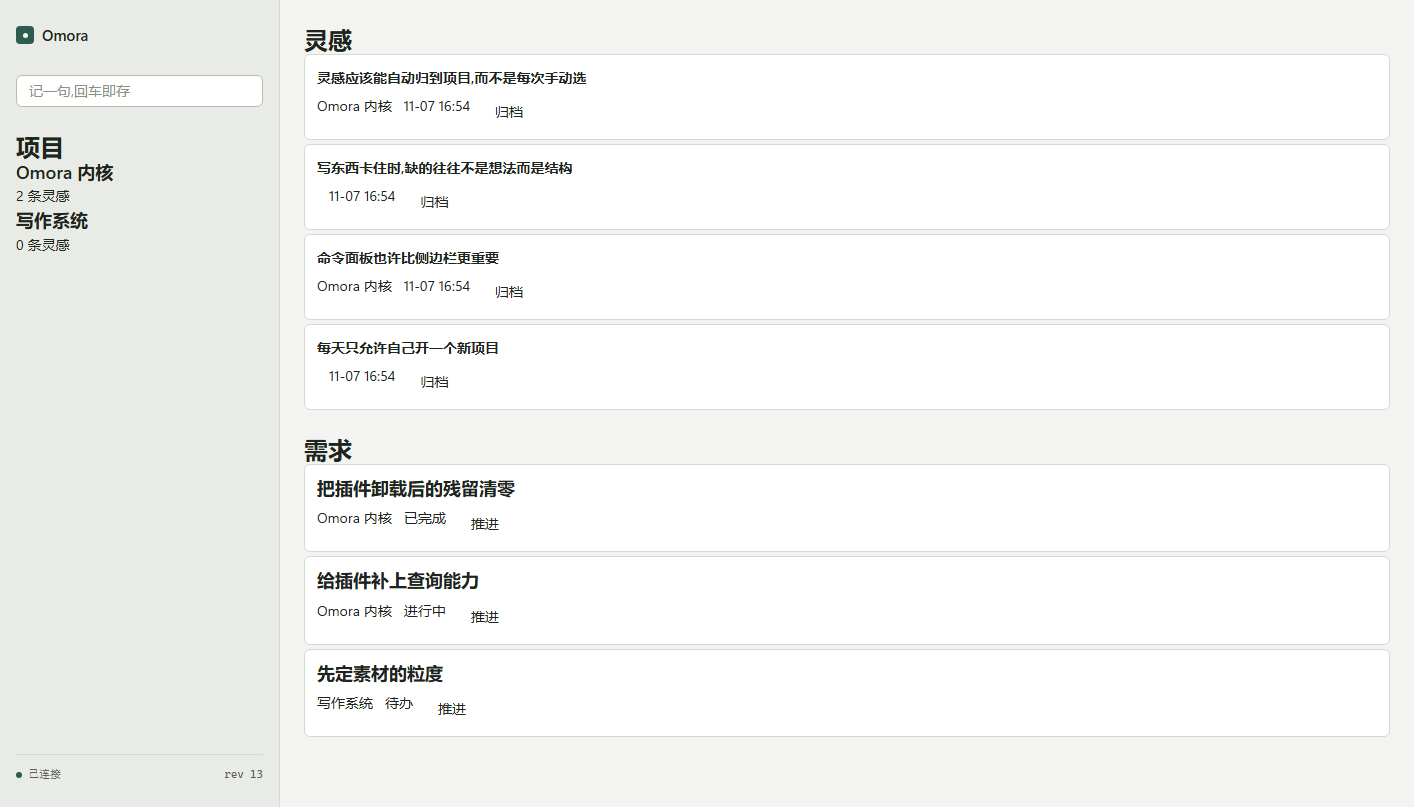
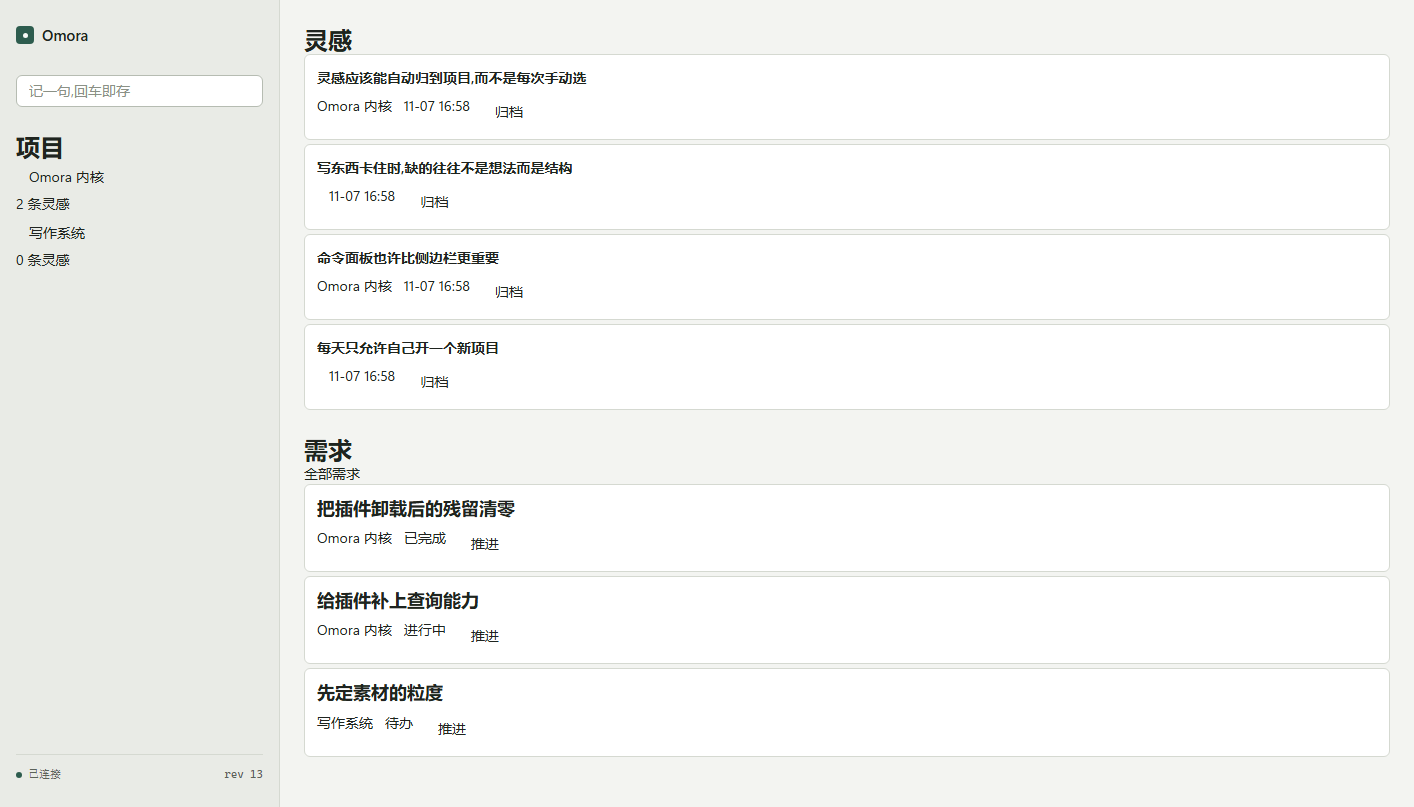
feat: 点项目即聚焦,需求列表跟着过滤
projects 广播 projects.focused,requirements 折叠它并重算可见列表——
跨插件联动只靠事件,两边互不 import,也不知道对方存在。

Changed region(s): [[0.2178, 0.5576, 0.9646, 0.9294], [0.0, 0.1859, 0.0934, 0.3408]]

diff --git a/plugins/projects/src/omora_plugins_projects/__init__.py b/plugins/projects/src/omora_plugins_projects/__init__.py
@@ -8,7 +8,7 @@ from __future__ import annotations
 from collections.abc import Mapping, Sequence
 from typing import cast
 
-from omora_sdk import Handler, Node, Plugin, PluginContext, list_, stack, text
+from omora_sdk import Handler, Node, Plugin, PluginContext, button, list_, stack, text
 
 PLUGIN_ID = "omora.projects"
 SIDEBAR_CONTRIBUTION_ID = "projects.sidebar"
@@ -19,6 +19,8 @@ LOOKUP_SERVICE = "projects.lookup"
 CREATED_EVENT = "projects.created"
 ARCHIVED_EVENT = "projects.archived"
 IDEA_ASSIGNED_EVENT = "ideas.assigned"
+FOCUS_COMMAND = "projects.focus"
+FOCUSED_EVENT = "projects.focused"
 
 
 def _item_list(state: dict[str, object]) -> list[dict[str, object]]:
@@ -84,6 +86,22 @@ def _fold_idea_assigned(state: dict[str, object], data: Mapping[str, object]) ->
             item["ideas"] = ideas
         cast("list[object]", ideas).append({"id": idea_id, "title": data.get("ideaTitle", "")})
         item["ideaCountLabel"] = f"{len(cast('list[object]', ideas))} 条灵感"
+
+
+def _focus_command(ctx: PluginContext) -> Handler:
+    """projects.focus:广播「当前看哪个项目」;别的插件据此过滤自己的数据。"""
+
+    async def focus(args: Mapping[str, object]) -> object:
+        project_id = _string_arg(args, "id")
+        title = ""
+        for item in _project_items(ctx.state.read()):
+            if item.get("id") == project_id:
+                value = item.get("title")
+                title = value if isinstance(value, str) else ""
+        await ctx.events.emit(FOCUSED_EVENT, {"id": project_id, "title": title})
+        return None
+
+    return focus
 
 
 def _string_arg(args: Mapping[str, object], key: str) -> str:
@@ -153,7 +171,12 @@ def _view(_state: Mapping[str, object]) -> Sequence[Node]:
                     [
                         stack(
                             [
-                                text("$item.title", variant="subtitle"),
+                                button(
+                                    "$item.title",
+                                    command=FOCUS_COMMAND,
+                                    args={"id": "$item.id"},
+                                    variant="ghost",
+                                ),
                                 text("$item.ideaCountLabel", variant="caption"),
                             ],
                             gap=2,
@@ -176,6 +199,7 @@ class ProjectsPlugin:
         ctx.state.register(IDEA_ASSIGNED_EVENT, _fold_idea_assigned)
         ctx.commands.register(CREATE_COMMAND, _create_command(ctx))
         ctx.commands.register(ARCHIVE_COMMAND, _archive_command(ctx))
+        ctx.commands.register(FOCUS_COMMAND, _focus_command(ctx))
         ctx.queries.register(LIST_QUERY, _list_query(ctx))
         ctx.services.provide(LOOKUP_SERVICE, _lookup_service(ctx))
         ctx.ui.contribute(SIDEBAR_CONTRIBUTION_ID, _view)
@@ -192,6 +216,8 @@ __all__ = [
     "ARCHIVE_COMMAND",
     "CREATED_EVENT",
     "CREATE_COMMAND",
+    "FOCUSED_EVENT",
+    "FOCUS_COMMAND",
     "IDEA_ASSIGNED_EVENT",
     "LIST_QUERY",
     "LOOKUP_SERVICE",

diff --git a/plugins/requirements/src/omora_plugins_requirements/__init__.py b/plugins/requirements/src/omora_plugins_requirements/__init__.py
@@ -27,6 +27,7 @@ CREATE_COMMAND = "requirements.create"
 SET_STATUS_COMMAND = "requirements.setStatus"
 LIST_QUERY = "requirements.list"
 PROJECT_LOOKUP_SERVICE = "projects.lookup"
+FOCUSED_EVENT = "projects.focused"
 CREATED_EVENT = "requirements.created"
 STATUS_CHANGED_EVENT = "requirements.statusChanged"
 
@@ -85,6 +86,7 @@ def _fold_created(state: dict[str, object], data: Mapping[str, object]) -> None:
             "at": data.get("at"),
         }
     )
+    _recompute(state)
 
 
 def _fold_status_changed(state: dict[str, object], data: Mapping[str, object]) -> None:
@@ -98,6 +100,33 @@ def _fold_status_changed(state: dict[str, object], data: Mapping[str, object]) -
             item["status"] = status
             item["statusLabel"] = _label(status)
             item["nextStatus"] = NEXT_STATUS.get(status, STATUS_DONE)
+    _recompute(state)
+
+
+def _recompute(state: dict[str, object]) -> None:
+    """按当前聚焦的项目重算可见列表;没聚焦就是全部。前端只渲染 visible。"""
+    focused = state.get("focusedProjectId")
+    selected = focused if isinstance(focused, str) and focused else None
+    items = _requirement_items(state)
+    state["visible"] = [
+        item for item in items if selected is None or item.get("projectId") == selected
+    ]
+    title = state.get("focusedProjectTitle")
+    if selected is None:
+        state["focusLabel"] = "全部需求"
+    elif isinstance(title, str) and title:
+        state["focusLabel"] = f"项目:{title}"
+    else:
+        state["focusLabel"] = "这个项目"
+
+
+def _fold_focus(state: dict[str, object], data: Mapping[str, object]) -> None:
+    """别的插件广播「看哪个项目」,这里据此过滤自己的列表。"""
+    identifier = data.get("id")
+    state["focusedProjectId"] = identifier if isinstance(identifier, str) else ""
+    title = data.get("title")
+    state["focusedProjectTitle"] = title if isinstance(title, str) else ""
+    _recompute(state)
 
 
 def _string_arg(args: Mapping[str, object], key: str) -> str:
@@ -179,8 +208,9 @@ def _view(_state: Mapping[str, object]) -> Sequence[Node]:
         stack(
             [
                 text("需求", variant="title"),
+                text("$focusLabel", variant="caption"),
                 list_(
-                    "$items",
+                    "$visible",
                     [
                         card(
                             [
@@ -216,6 +246,7 @@ class RequirementsPlugin:
         """登记两条折叠规则、两个命令、一个查询与一个 main 贡献。"""
         ctx.state.register(CREATED_EVENT, _fold_created)
         ctx.state.register(STATUS_CHANGED_EVENT, _fold_status_changed)
+        ctx.state.register(FOCUSED_EVENT, _fold_focus)
         ctx.commands.register(CREATE_COMMAND, _create_command(ctx))
         ctx.commands.register(SET_STATUS_COMMAND, _set_status_command(ctx))
         ctx.queries.register(LIST_QUERY, _list_query(ctx))

diff --git a/plugins/requirements/tests/test_requirements_plugin.py b/plugins/requirements/tests/test_requirements_plugin.py
@@ -82,6 +82,7 @@ def test_activate_registers_commands_query_and_contribution() -> None:
     assert set(context.fake_state.reducers) == {
         "requirements.created",
         "requirements.statusChanged",
+        "projects.focused",
     }
 
 
@@ -129,20 +130,11 @@ def test_created_event_folds_into_items() -> None:
     _create(context, "导出需求", "project-1")
     context.replay()
 
-    assert context.fake_state.read() == {
-        "items": [
-            {
-                "id": "requirement-1",
-                "title": "导出需求",
-                "projectId": "project-1",
-                "projectTitle": "",
-                "status": "todo",
-                "statusLabel": "待办",
-                "nextStatus": "doing",
-                "at": NOW.isoformat(),
-            }
-        ]
-    }
+    state = context.fake_state.read()
+    items = cast("list[dict[str, object]]", state["items"])
+    assert items[0]["title"] == "导出需求"
+    assert state["focusLabel"] == "全部需求", "没有聚焦项目时展示全部"
+    assert cast("list[object]", state["visible"]) == items, "未聚焦时可见列表就是全部"
 
 
 def test_set_status_emits_status_changed_event() -> None:
@@ -244,7 +236,7 @@ def test_advance_button_binds_item_id_and_doing_status() -> None:
 def test_list_declares_empty_state_text() -> None:
     list_node = _find(_nodes(_activated()), "List")[0]
 
-    assert list_node["props"] == {"items": "$items", "emptyText": "还没有需求"}
+    assert list_node["props"] == {"items": "$visible", "emptyText": "还没有需求"}
 
 
 def test_registered_commands_and_slots_match_manifest() -> None:
@@ -268,3 +260,34 @@ def test_manifest_version_matches_repository_version() -> None:
     expected = (ROOT / "VERSION").read_text(encoding="utf-8").strip()
 
     assert _manifest()["version"] == expected
+
+
+def test_focus_event_filters_the_visible_list() -> None:
+    context = _activated()
+    _create(context, "写作台需求", "project-1")
+    _create(context, "内核需求", "project-2")
+    context.replay()
+
+    asyncio.run(
+        context.fake_events.emit("projects.focused", {"id": "project-1", "title": "写作台"})
+    )
+    context.replay()
+
+    state = context.fake_state.read()
+    visible = cast("list[dict[str, object]]", state["visible"])
+    assert [item["title"] for item in visible] == ["写作台需求"], "只看当前项目"
+    assert state["focusLabel"] == "项目:写作台"
+
+
+def test_focusing_nothing_shows_everything_again() -> None:
+    context = _activated()
+    _create(context, "写作台需求", "project-1")
+    _create(context, "内核需求", "project-2")
+    context.replay()
+
+    asyncio.run(context.fake_events.emit("projects.focused", {"id": "", "title": ""}))
+    context.replay()
+
+    state = context.fake_state.read()
+    assert len(cast("list[object]", state["visible"])) == 2
+    assert state["focusLabel"] == "全部需求"

diff --git a/plugins/projects/tests/test_projects_plugin.py b/plugins/projects/tests/test_projects_plugin.py
@@ -46,7 +46,11 @@ def _children(node: Node) -> list[Node]:
 def test_activate_registers_commands_query_service_and_contribution() -> None:
     context = _activated()
 
-    assert set(context.fake_commands.handlers) == {"projects.create", "projects.archive"}
+    assert set(context.fake_commands.handlers) == {
+        "projects.create",
+        "projects.archive",
+        "projects.focus",
+    }
     assert set(context.fake_queries.handlers) == {"projects.list"}
     assert set(context.fake_services.providers) == {"projects.lookup"}
     assert set(context.fake_ui.contributions) == {"projects.sidebar"}
@@ -149,10 +153,12 @@ def test_sidebar_lists_project_titles_with_empty_state_text() -> None:
     assert rows[1]["props"] == {"items": "$items", "emptyText": "还没有项目"}
     row = _children(rows[1])[0]
     assert row["type"] == "Stack"
-    assert [leaf["props"]["text"] for leaf in _children(row)] == [
-        "$item.title",
-        "$item.ideaCountLabel",
-    ]
+    leaves = _children(row)
+    assert [leaf["type"] for leaf in leaves] == ["Button", "Text"]
+    label = cast("dict[str, object]", leaves[0]["props"])["label"]
+    assert label == "$item.title", "点标题就是看这个项目"
+    count = cast("dict[str, object]", leaves[1]["props"])["text"]
+    assert count == "$item.ideaCountLabel"
 
 
 def test_registered_commands_and_slots_match_manifest() -> None:
@@ -217,3 +223,16 @@ def test_idea_assigned_to_unknown_project_is_ignored() -> None:
 
     items = cast("list[dict[str, object]]", context.fake_state.read()["items"])
     assert items[0]["ideaCountLabel"] == "0 条灵感", "不认识的项目不该被凭空创建"
+
+
+def test_focus_command_emits_the_project_that_is_now_in_view() -> None:
+    context = _activated()
+    asyncio.run(context.fake_commands.invoke("projects.create", {"title": "写作台"}))
+    context.replay()
+
+    asyncio.run(context.fake_commands.invoke("projects.focus", {"id": "project-1"}))
+
+    assert context.fake_events.emitted[-1] == (
+        "projects.focused",
+        {"id": "project-1", "title": "写作台"},
+    ), "别的插件靠这条事件知道该过滤成什么"

diff --git a/docs/roadmap/p1.md b/docs/roadmap/p1.md
@@ -66,7 +66,7 @@ P1 不是「加功能」，是**用功能去反推核心 API**。所以：
 | P1.2 projects | 完成 | 13 条行为测试；提供 `projects.lookup` |
 | P1.3 requirements | 完成 | 18 条行为测试；状态限定 `todo/doing/done` |
 | P1.4 ideas 升级 | 完成 | 分诊走 `projects.lookup`，服务不可用时不发事件 |
-| P1.5 壳与设计 | 进行中 | 设计 token、命令面板、状态栏 |
+| P1.5 壳与设计 | 完成 | 设计 token、命令面板、状态栏；点项目即聚焦,需求列表跟着过滤 |
 | P1.6 验收 | 链路已通 | `scripts/accept_p1.py` 对着真实内核跑通：建项目 → 建需求 → 改状态 → 记灵感 → 分诊 → 三片投影一致 |
 
 ### 暂不做
@@ -76,6 +76,7 @@ P1 不是「加功能」，是**用功能去反推核心 API**。所以：
 | 全局检索 | 状态已经完整投影到前端，本地过滤是小事；但"搜到之后能做什么"取决于选择与跳转模型，那是 P2 的设计问题。先不做半截体验 |
 | 需求回溯到来源灵感 | 需要选择与跳转模型；当前 `ideas.assign` 已经记录了归属，反向链接等 P2 |
 | 引用选择器（挑一个项目来分诊） | 需要新的 C3 控件（Select）。控件词表扩张要谨慎，留给 P2 的控件注册表 |
+| 灵感就地编辑 | 每行一个输入框会把列表撑得很吵；等有更好的编辑交互再作 |
 
 ## 6. 怎么判断 P1 有没有做对
 
